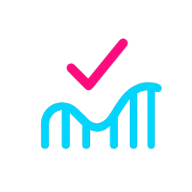
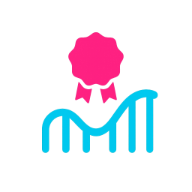
feat(frontend): update ESLint configuration and enhance project dependencies
- Added eslint-config-prettier to the ESLint configuration to improve code formatting consistency.
- Updated package.json to reflect the latest versions of eslint-config-prettier and prettier.
- Introduced .vscode/settings.json for automatic formatting on save across various file types.
- Modified frontend package.json scripts for improved build and testing processes.
- Added custom scrollbar styling in tailwind.css for enhanced UI experience.
- Included new favicon images for better branding and user experience.

Changed region(s): [[0.1875, 0.1562, 0.8438, 0.8125]]

diff --git a/frontend/assets/css/tailwind.css b/frontend/assets/css/tailwind.css
@@ -90,3 +90,27 @@
     -moz-osx-font-smoothing: grayscale;
   }
 }
+
+/* Custom Scrollbar Styling */
+/* Sets track to background, thumb to muted foreground */
+* {
+  scrollbar-width: auto; /* Or 'thin' */
+  scrollbar-color: hsl(var(--muted-foreground)) hsl(var(--background)); /* thumb track - Firefox */
+}
+
+/* Webkit (Chrome, Safari, Edge) */
+::-webkit-scrollbar {
+  width: 10px; /* Adjust width as needed */
+  height: 10px; /* Adjust height as needed */
+}
+::-webkit-scrollbar-track {
+  background: hsl(var(--background));
+}
+::-webkit-scrollbar-thumb {
+  background-color: hsl(var(--muted-foreground));
+  border-radius: 5px; /* Rounded corners for the thumb */
+  border: 2px solid hsl(var(--background)); /* Padding around thumb */
+}
+::-webkit-scrollbar-thumb:hover {
+   background-color: hsl(var(--muted)); /* Slightly lighter/different color on hover */
+}
